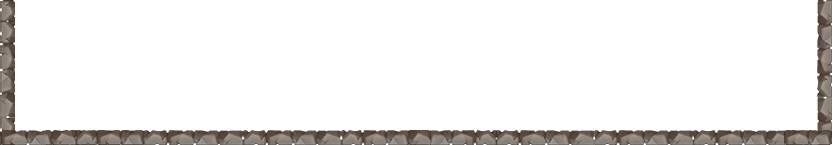
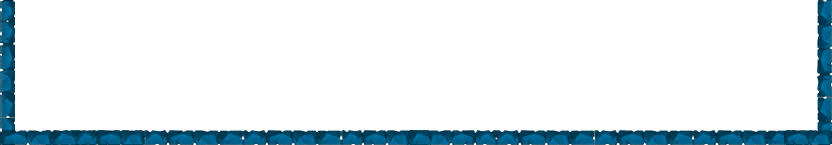
Add files via upload

Changed region(s): [[0.0, 0.0, 1.0, 1.0]]

diff --git a/wp-content/themes/Themice/style.css b/wp-content/themes/Themice/style.css
@@ -3,9 +3,9 @@ Theme Name: Themice
 Theme URI: http://www.transformice.com
 Description: Theme created for the game Transformice
 Version: 0.1
-Author: Melanie Christin
+Author: Melanie Amr
  
-Themice by Melanie Christin || http://www.transformice.com
+Themice by Amr || https://amrtfa.github.io/TransforArab/
  
 */
 
@@ -190,8 +190,8 @@ hr {
   width: 300px;
   margin-left: -10px;
   padding: 0;
-  color: #8a8a89;
-  background-color: #8a8a89;
+  color: #0066ff;
+  background-color: #0066ff;
   border: 0;
   text-align:left;
 
